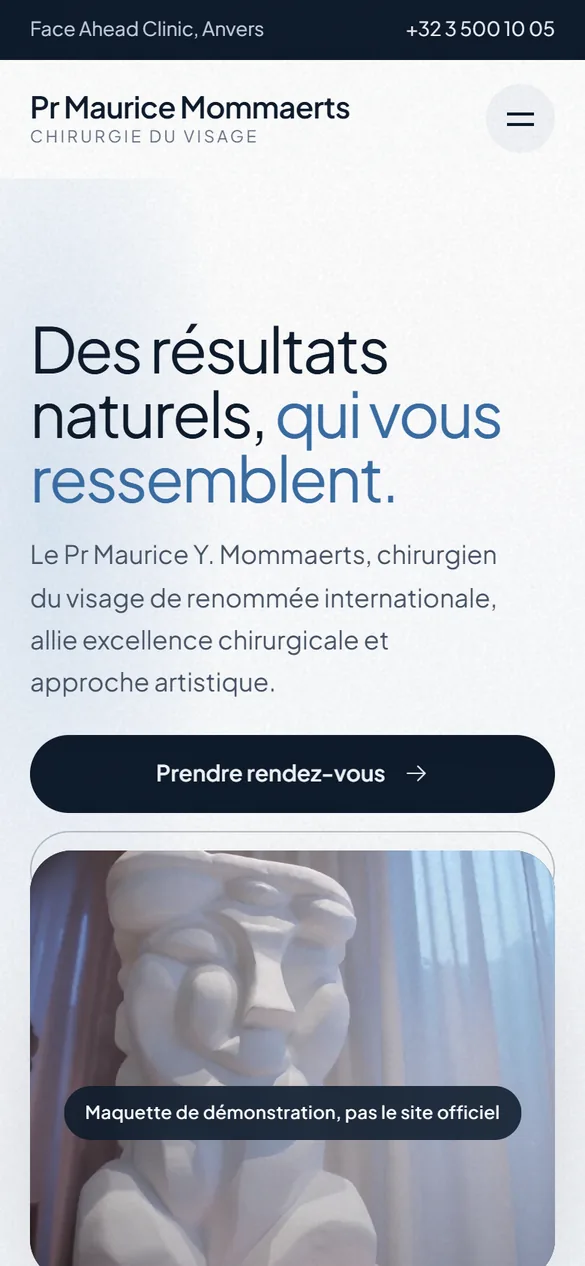
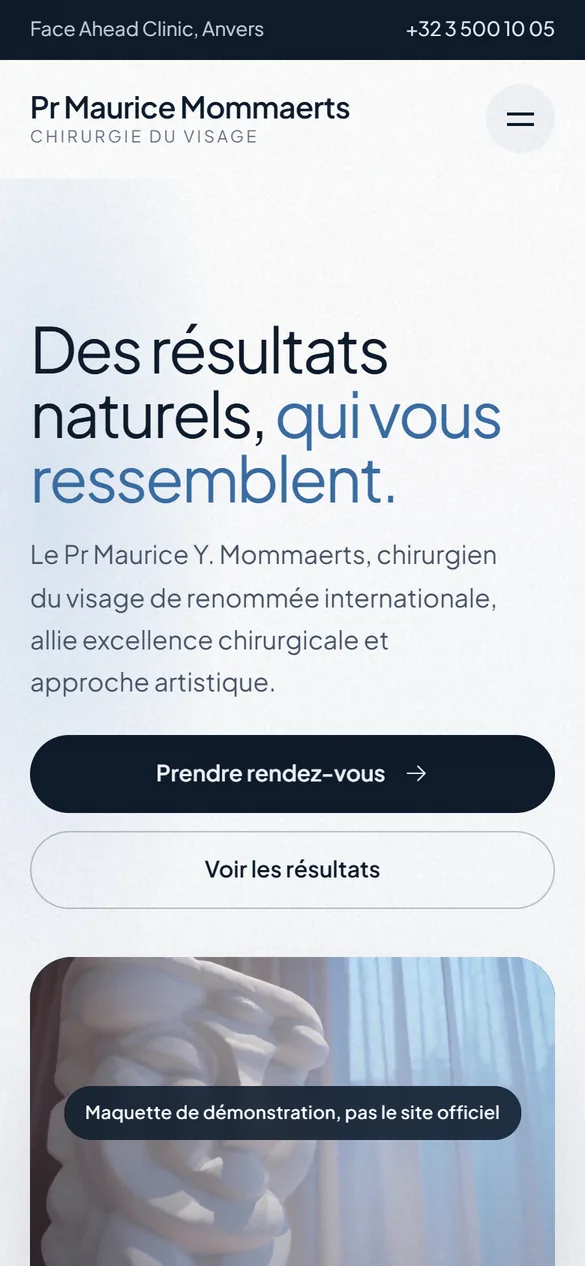
Présentation : vraies captures iPhone

Changed region(s): [[0.0308, 0.6469, 0.9538, 1.0]]

diff --git a/presentation.html b/presentation.html
@@ -13,7 +13,7 @@
   <link href="https://fonts.googleapis.com/css2?family=Plus+Jakarta+Sans:wght@400;500;600;700&display=swap" rel="stylesheet">
   <link rel="stylesheet" href="https://unpkg.com/@phosphor-icons/web@2.1.1/src/light/style.css" media="print" onload="this.media='all'">
   <link rel="stylesheet" href="https://unpkg.com/@phosphor-icons/web@2.1.1/src/bold/style.css" media="print" onload="this.media='all'">
-  <link rel="stylesheet" href="assets/v2.css?v=1795787470">
+  <link rel="stylesheet" href="assets/v2.css?v=1795787617">
   <style>
     .pt-hero { padding: clamp(48px, 8vw, 110px) 0 clamp(32px, 5vw, 56px); text-align: center; }
     .pt-hero .eyebrow { display: inline-block; margin-bottom: 20px; padding: 6px 14px; border-radius: 999px; background: #eef3f9; color: var(--bronze); font-size: 13.5px; font-weight: 600; }
@@ -145,6 +145,6 @@
   </section>
 
 </main>
-<script src="assets/v2.js?v=1795787470"></script>
+<script src="assets/v2.js?v=1795787617"></script>
 </body>
 </html>

diff --git a/a-propos.html b/a-propos.html
@@ -19,8 +19,8 @@
   <link href="https://fonts.googleapis.com/css2?family=Plus+Jakarta+Sans:wght@400;500;600;700&display=swap" rel="stylesheet">
     <link rel="stylesheet" href="https://unpkg.com/@phosphor-icons/web@2.1.1/src/light/style.css" media="print" onload="this.media='all'">
   <link rel="stylesheet" href="https://unpkg.com/@phosphor-icons/web@2.1.1/src/bold/style.css" media="print" onload="this.media='all'">
-  <link rel="stylesheet" href="assets/v2.css?v=1795787470">
-  <link rel="stylesheet" href="assets/v2-pages.css?v=1795787470">
+  <link rel="stylesheet" href="assets/v2.css?v=1795787617">
+  <link rel="stylesheet" href="assets/v2-pages.css?v=1795787617">
 </head>
 <body>
 
@@ -181,6 +181,6 @@
   <a class="btn btn--light" href="contact.html">Rendez-vous <i class="ph-light ph-arrow-right" aria-hidden="true"></i></a>
 </div>
 
-<script src="assets/v2.js?v=1795787470"></script>
+<script src="assets/v2.js?v=1795787617"></script>
 </body>
 </html>

diff --git a/contact.html b/contact.html
@@ -19,8 +19,8 @@
   <link href="https://fonts.googleapis.com/css2?family=Plus+Jakarta+Sans:wght@400;500;600;700&display=swap" rel="stylesheet">
     <link rel="stylesheet" href="https://unpkg.com/@phosphor-icons/web@2.1.1/src/light/style.css" media="print" onload="this.media='all'">
   <link rel="stylesheet" href="https://unpkg.com/@phosphor-icons/web@2.1.1/src/bold/style.css" media="print" onload="this.media='all'">
-  <link rel="stylesheet" href="assets/v2.css?v=1795787470">
-  <link rel="stylesheet" href="assets/v2-pages.css?v=1795787470">
+  <link rel="stylesheet" href="assets/v2.css?v=1795787617">
+  <link rel="stylesheet" href="assets/v2-pages.css?v=1795787617">
 </head>
 <body>
 
@@ -126,6 +126,6 @@
   <a class="btn btn--light" href="contact.html">Rendez-vous <i class="ph-light ph-arrow-right" aria-hidden="true"></i></a>
 </div>
 
-<script src="assets/v2.js?v=1795787470"></script>
+<script src="assets/v2.js?v=1795787617"></script>
 </body>
 </html>

diff --git a/interventions.html b/interventions.html
@@ -19,8 +19,8 @@
   <link href="https://fonts.googleapis.com/css2?family=Plus+Jakarta+Sans:wght@400;500;600;700&display=swap" rel="stylesheet">
     <link rel="stylesheet" href="https://unpkg.com/@phosphor-icons/web@2.1.1/src/light/style.css" media="print" onload="this.media='all'">
   <link rel="stylesheet" href="https://unpkg.com/@phosphor-icons/web@2.1.1/src/bold/style.css" media="print" onload="this.media='all'">
-  <link rel="stylesheet" href="assets/v2.css?v=1795787470">
-  <link rel="stylesheet" href="assets/v2-pages.css?v=1795787470">
+  <link rel="stylesheet" href="assets/v2.css?v=1795787617">
+  <link rel="stylesheet" href="assets/v2-pages.css?v=1795787617">
 </head>
 <body>
 
@@ -232,6 +232,6 @@
   <a class="btn btn--light" href="contact.html">Rendez-vous <i class="ph-light ph-arrow-right" aria-hidden="true"></i></a>
 </div>
 
-<script src="assets/v2.js?v=1795787470"></script>
+<script src="assets/v2.js?v=1795787617"></script>
 </body>
 </html>

diff --git a/resultats.html b/resultats.html
@@ -19,8 +19,8 @@
   <link href="https://fonts.googleapis.com/css2?family=Plus+Jakarta+Sans:wght@400;500;600;700&display=swap" rel="stylesheet">
     <link rel="stylesheet" href="https://unpkg.com/@phosphor-icons/web@2.1.1/src/light/style.css" media="print" onload="this.media='all'">
   <link rel="stylesheet" href="https://unpkg.com/@phosphor-icons/web@2.1.1/src/bold/style.css" media="print" onload="this.media='all'">
-  <link rel="stylesheet" href="assets/v2.css?v=1795787470">
-  <link rel="stylesheet" href="assets/v2-pages.css?v=1795787470">
+  <link rel="stylesheet" href="assets/v2.css?v=1795787617">
+  <link rel="stylesheet" href="assets/v2-pages.css?v=1795787617">
 </head>
 <body>
 
@@ -371,6 +371,6 @@
   <a class="btn btn--light" href="contact.html">Rendez-vous <i class="ph-light ph-arrow-right" aria-hidden="true"></i></a>
 </div>
 
-<script src="assets/v2.js?v=1795787470"></script>
+<script src="assets/v2.js?v=1795787617"></script>
 </body>
 </html>

diff --git a/404.html b/404.html
@@ -19,8 +19,8 @@
   <link href="https://fonts.googleapis.com/css2?family=Plus+Jakarta+Sans:wght@400;500;600;700&display=swap" rel="stylesheet">
     <link rel="stylesheet" href="https://unpkg.com/@phosphor-icons/web@2.1.1/src/light/style.css" media="print" onload="this.media='all'">
   <link rel="stylesheet" href="https://unpkg.com/@phosphor-icons/web@2.1.1/src/bold/style.css" media="print" onload="this.media='all'">
-  <link rel="stylesheet" href="assets/v2.css?v=1795787470">
-  <link rel="stylesheet" href="assets/v2-pages.css?v=1795787470">
+  <link rel="stylesheet" href="assets/v2.css?v=1795787617">
+  <link rel="stylesheet" href="assets/v2-pages.css?v=1795787617">
 </head>
 <body>
 
@@ -96,6 +96,6 @@
   <a class="btn btn--light" href="contact.html">Rendez-vous <i class="ph-light ph-arrow-right" aria-hidden="true"></i></a>
 </div>
 
-<script src="assets/v2.js?v=1795787470"></script>
+<script src="assets/v2.js?v=1795787617"></script>
 </body>
 </html>

diff --git a/index.html b/index.html
@@ -21,7 +21,7 @@
   <link href="https://fonts.googleapis.com/css2?family=Plus+Jakarta+Sans:wght@400;500;600;700&display=swap" rel="stylesheet">
     <link rel="stylesheet" href="https://unpkg.com/@phosphor-icons/web@2.1.1/src/light/style.css" media="print" onload="this.media='all'">
   <link rel="stylesheet" href="https://unpkg.com/@phosphor-icons/web@2.1.1/src/bold/style.css" media="print" onload="this.media='all'">
-  <link rel="stylesheet" href="assets/v2.css?v=1795787470">
+  <link rel="stylesheet" href="assets/v2.css?v=1795787617">
   <script type="application/ld+json">
   {
     "@context": "https://schema.org",
@@ -409,6 +409,6 @@
   <a class="btn btn--light" href="#contact">Rendez-vous <i class="ph-light ph-arrow-right" aria-hidden="true"></i></a>
 </div>
 
-<script src="assets/v2.js?v=1795787470"></script>
+<script src="assets/v2.js?v=1795787617"></script>
 </body>
 </html>
